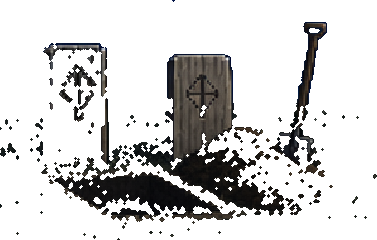
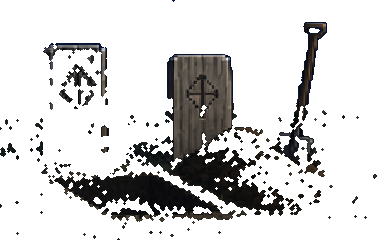
Pictures fixed by script (errata 358)
Claude-Session: https://claude.ai/code/session_01FXbCus2Hm36NL2YuHFGB8T

Changed region(s): [[0.1751, 0.5542, 0.3501, 0.7292], [0.1751, 0.4375, 0.2334, 0.525], [0.2626, 0.4375, 0.2918, 0.525]]

diff --git a/tools/art/blue-fringe.py b/tools/art/blue-fringe.py
@@ -1,0 +1,53 @@
+"""A cyan-blue fringe taken off the graveside hearse (errata 358). No image operation.
+
+The Act III review's art director measured a bright blue one-pixel fringe on the hearse's roof and finial and on the
+mule's plume at the graveside: 16.7% and 14.8% of their edge pixels are cyan-blue, against under half a percent inside
+any sheet. It is the key screen the generation was cut from. A pixel within six of the outside that is blue or cyan
+(bluer than anything the night gives a black hearse) takes the colour of the nearest of the sheet's own pixels that
+is not. No pixel is added or removed. Run once, on the sheets as generated.
+
+    python3 tools/art/blue-fringe.py [--dry]
+"""
+import os
+import sys
+
+import numpy as np
+from PIL import Image
+from scipy import ndimage
+
+ROOT = os.path.dirname(os.path.dirname(os.path.dirname(os.path.abspath(__file__))))
+# How far in from the outline the fringe reaches. The mule (art/actors/room-31-grievance.png) is not on the list: her
+# plume's toss is her deliberate action (errata 77), and most of what changes between those frames is the blue fringe
+# itself, so taking it off leaves her under the movement test's ten percent. She needs the toss redrawn first.
+SHEETS = {'art/props/room-31-hearse.png': 6}
+DRY = '--dry' in sys.argv
+
+
+def fringe(px, reach):
+    r, g, b, a = [px[..., k].astype(int) for k in range(4)]
+    opaque = a > 0
+    near_edge = opaque & ~ndimage.binary_erosion(opaque, structure=np.ones((3, 3)), iterations=reach)
+    # Bluer than the night makes black: blue well above both red and green.
+    blue = ((b - np.maximum(r, g) > 22) & (b > 55)) | ((b - r > 35) & (g - r > 25) & (b > 70))
+    return opaque, near_edge & blue
+
+
+def main():
+    for rel, reach in SHEETS.items():
+        path = os.path.join(ROOT, rel)
+        px = np.asarray(Image.open(path).convert('RGBA')).copy()
+        opaque, bad = fringe(px, reach)
+        r, g, b = [px[..., k].astype(int) for k in range(3)]
+        bluish = ((b - np.maximum(r, g) > 22) & (b > 55)) | ((b - r > 35) & (g - r > 25) & (b > 70))
+        # Each fringe pixel takes the colour of the nearest of the sheet's own pixels that is not blue at all.
+        source = opaque & ~bluish
+        _, (iy, ix) = ndimage.distance_transform_edt(~source, return_indices=True)
+        ys, xs = np.nonzero(bad)
+        px[ys, xs, :3] = px[iy[ys, xs], ix[ys, xs], :3]
+        print(rel, int(bad.sum()), 'fringe pixels')
+        if not DRY:
+            Image.fromarray(px, 'RGBA').save(path)
+
+
+if __name__ == '__main__':
+    main()

diff --git a/tools/art/fresh-plot-wreath.py b/tools/art/fresh-plot-wreath.py
@@ -1,0 +1,45 @@
+"""The fresh grave no longer draws through the Colonel's wreath (errata 358). No image operation.
+
+Props are drawn in feet order, and Boot Hill's fresh plot (feet at y 365) is drawn after the Colonel's wreath on Pike's
+board (feet at y 302): three columns of the plot's headboard edge cut across the wreath (the Act III review's art
+director, finding 8). The plot's sheet loses its pixels where the wreath is drawn; nothing else changes.
+Props are anchored at the middle of their feet: left = x - width // 2, top = y - height + 1.
+"""
+import json
+import os
+
+import numpy as np
+from PIL import Image
+
+ROOT = os.path.dirname(os.path.dirname(os.path.dirname(os.path.abspath(__file__))))
+
+
+def box(prop):
+    _, _, w, h = prop['frame']
+    return prop['x'] - w // 2, prop['y'] - h + 1, w, h
+
+
+def main():
+    room = json.load(open(os.path.join(ROOT, 'content/rooms/boot-hill.json')))
+    props = {p['id']: p for p in room['props']}
+    plot, wreath = props['fresh_plot'], props['colonel_s_wreath']
+    path = os.path.join(ROOT, plot['sheet'])
+    sheet = np.asarray(Image.open(path).convert('RGBA')).copy()
+    over = np.asarray(Image.open(os.path.join(ROOT, wreath['sheet'])).convert('RGBA'))
+    px, py, pw, ph = box(plot)
+    wx, wy, ww, wh = box(wreath)
+    cleared = 0
+    for y in range(wh):
+        for x in range(ww):
+            if over[y, x, 3] == 0:
+                continue
+            sx, sy = wx + x - px, wy + y - py
+            if 0 <= sx < pw and 0 <= sy < ph and sheet[sy, sx, 3] > 0:
+                sheet[sy, sx, 3] = 0
+                cleared += 1
+    Image.fromarray(sheet, 'RGBA').save(path)
+    print('cleared', cleared, 'pixels of the plot under the wreath')
+
+
+if __name__ == '__main__':
+    main()

diff --git a/docs/00-errata.md b/docs/00-errata.md
@@ -8579,3 +8579,17 @@ Not done: the procession's prayer starting before "Let us bow our heads", and sp
 
 Lesson:
 - `tests/true-later.test.mjs`: four tests, each failing on main before this.
+
+## 358 · Pictures fixed by script (Tyler, 2026-11-16: "Go")
+
+From the Acts II to IV review's art directors; no image operation.
+
+- **No blue key fringe on the graveside hearse** (`tools/art/blue-fringe.py`): a halo of cyan-blue pixels round its roof and finial, the key screen it was cut from. Grievance's plume has the same fringe and keeps it for now: most of what changes in her plume's toss, her one deliberate action, is the fringe itself, and taking it off fails the movement test. The toss needs redrawing first.
+- **The fresh grave does not draw through the Colonel's wreath** (`tools/art/fresh-plot-wreath.py`): the plot is drawn after the wreath and three columns of its headboard cut across it; the plot's sheet loses its pixels where the wreath is.
+- **The Colonel behind his wreath stands on his porch,** not about 22 px above it (`y` 528 to 550).
+- **Sump and Pratt at the counter take the Registrar's light.** Sump was twice Thad's brightness; Pratt stood in Prosperity's daylight sheet.
+
+Not done (they need a drawing or a look first): the lamp left on Thad's desk after he takes it, the three different lamps, Grievance black in harness and brown elsewhere, the tuning peg above the headboard, the panner cut flat at the shins, the seam in the river plate, the dawn street's relighting, and Thad's Act IV room graded for night on a morning plate.
+
+Lesson:
+- `tests/act-three-pictures.test.mjs`: three tests, each failing on main before this.
